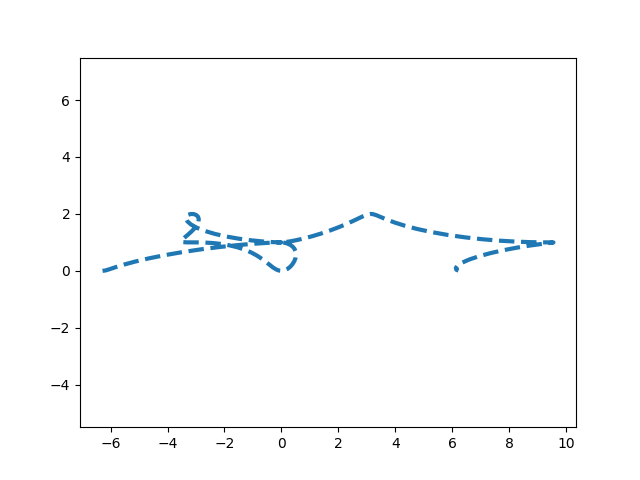
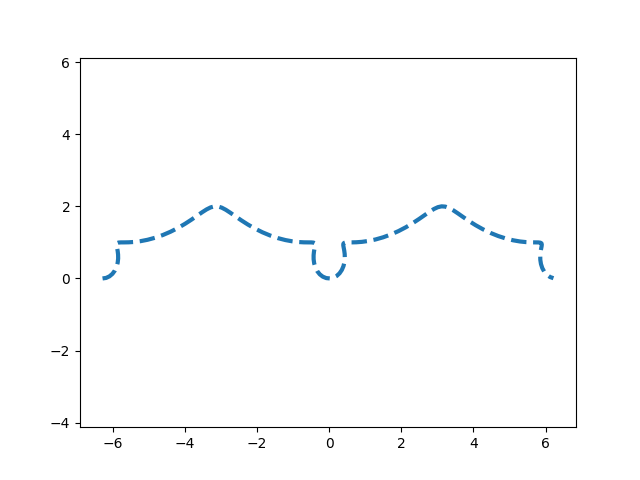
test_3

diff --git a/test_3.py b/test_3.py
@@ -8,20 +8,20 @@ anim_object, = plt.plot([], [], '-', lw=2) # Объект анимации
  
 xdata, ydata = [], [] # Координаты объекта анимации
  
-ax.set_xlim(0, 2*np.pi) # Пределы изменения переменной Х
-ax.set_ylim(-1, 1) # Пределы изменения переменной У
+ax.set_xlim(-20, 20) # Пределы изменения переменной Х
+ax.set_ylim(-20, 20) # Пределы изменения переменной У
  
 # Функция подстановки координат в объект анимации
 def update(frame):
-    xdata.append(frame) # Рассщет координаты Х
-    ydata.append(np.sin(frame)) # Рассщет координаты У
+    xdata.append(16 * np.sin(frame) ** 3) # Рассщет координаты Х
+    ydata.append(13 * np.cos(frame) - 5 * np.cos(frame * 2) - 2 * np.cos(frame * 3) - np.cos(frame * 4)) # Рассщет координаты У
     anim_object.set_data(xdata, ydata) # Передача координат
     return anim_object,
  
 ani = FuncAnimation(fig, # Стандартный вызов пространства
                     update, # Вызов функции подстановки координат
                     frames=np.arange(0, 2*np.pi, 0.1),
-                    interval=100 # Интервал между кадрами,
+                    interval=15 # Интервал между кадрами,
                     )            # по умолчанию 200 милисекунд
 	
-ani.save('animation_1.gif')
+ani.save('<3.gif')
